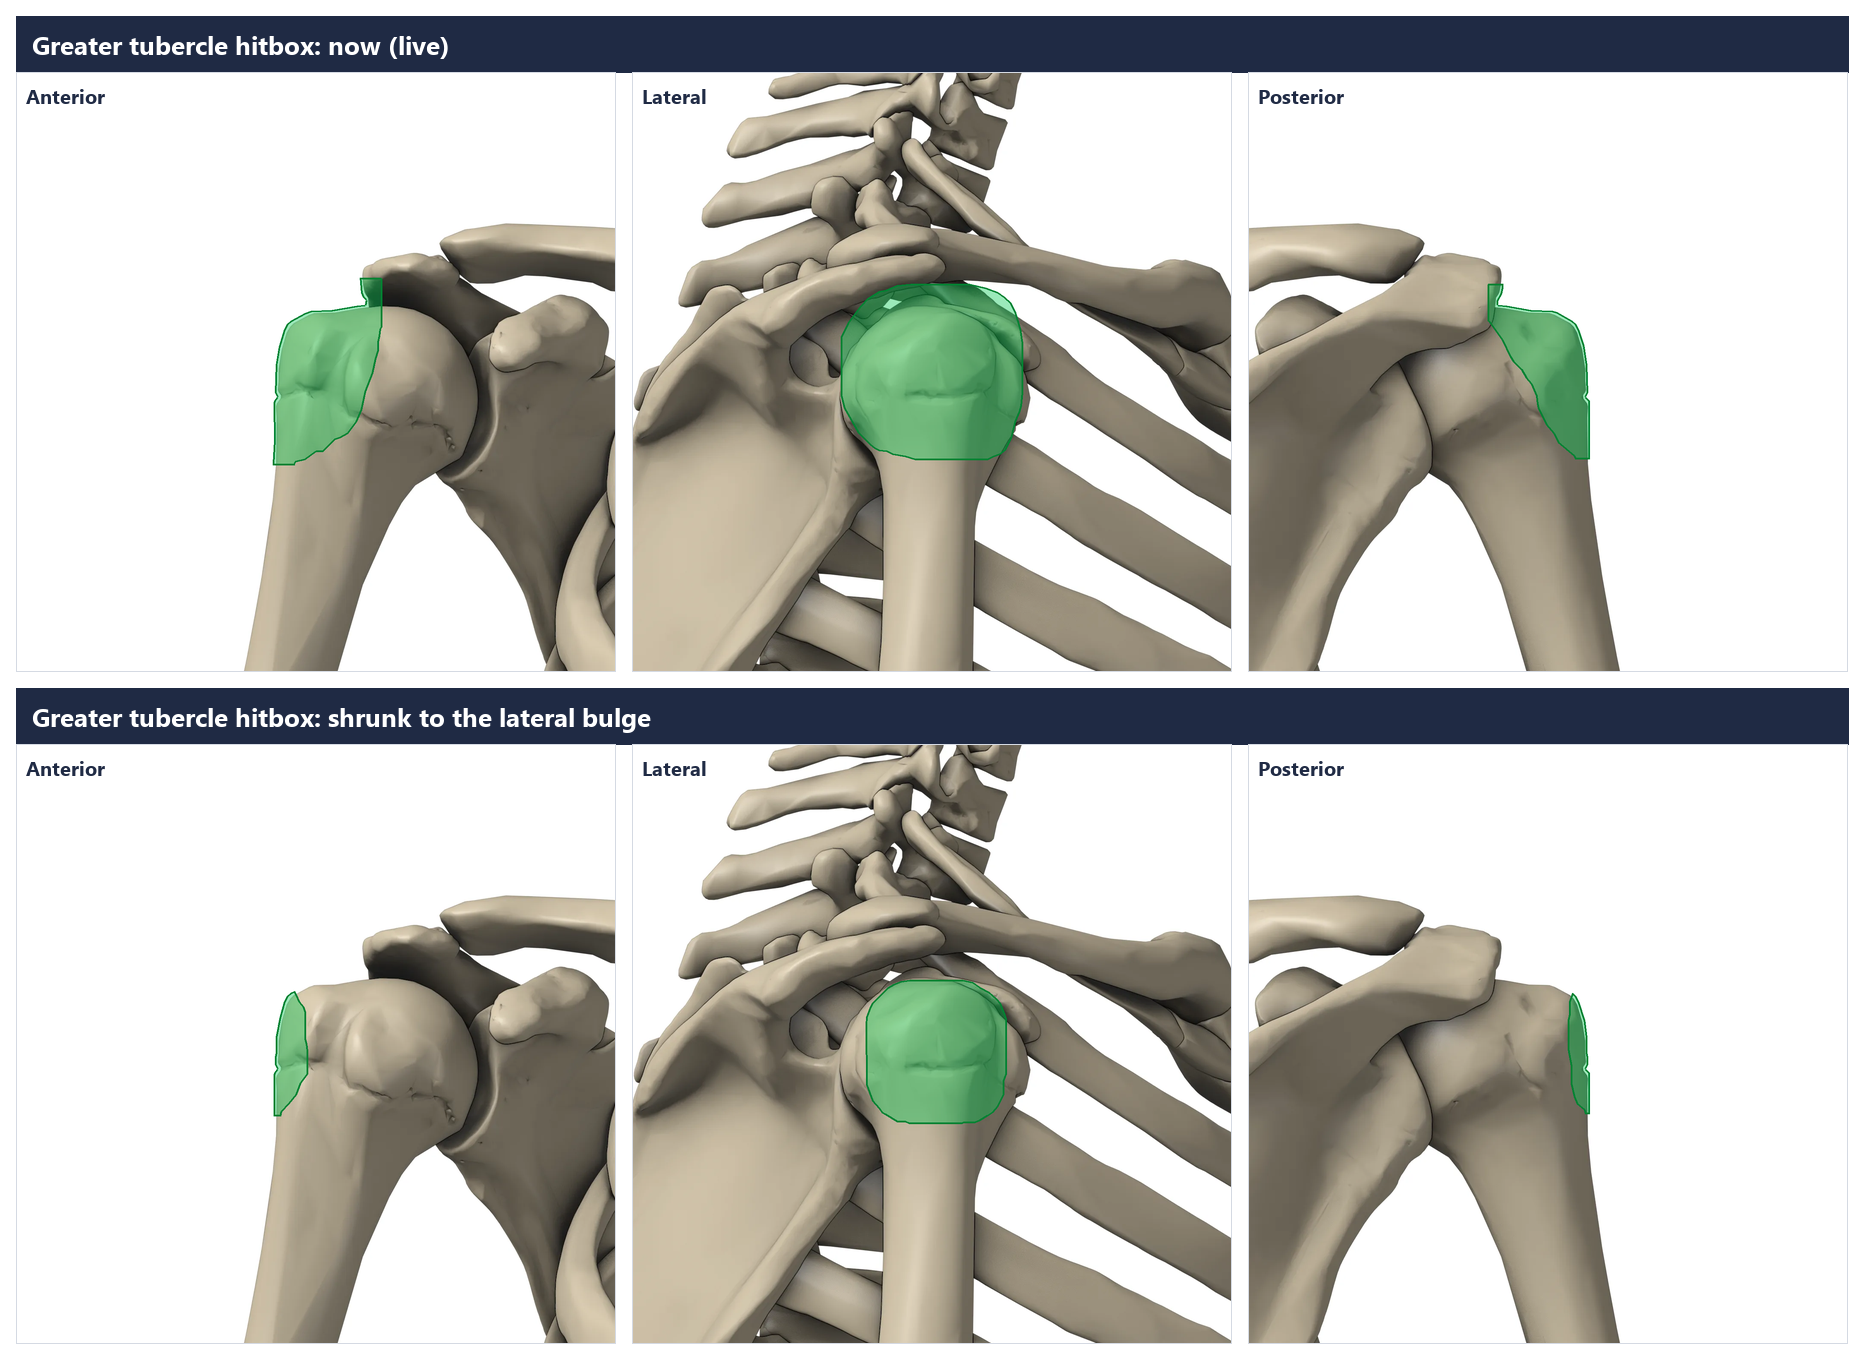
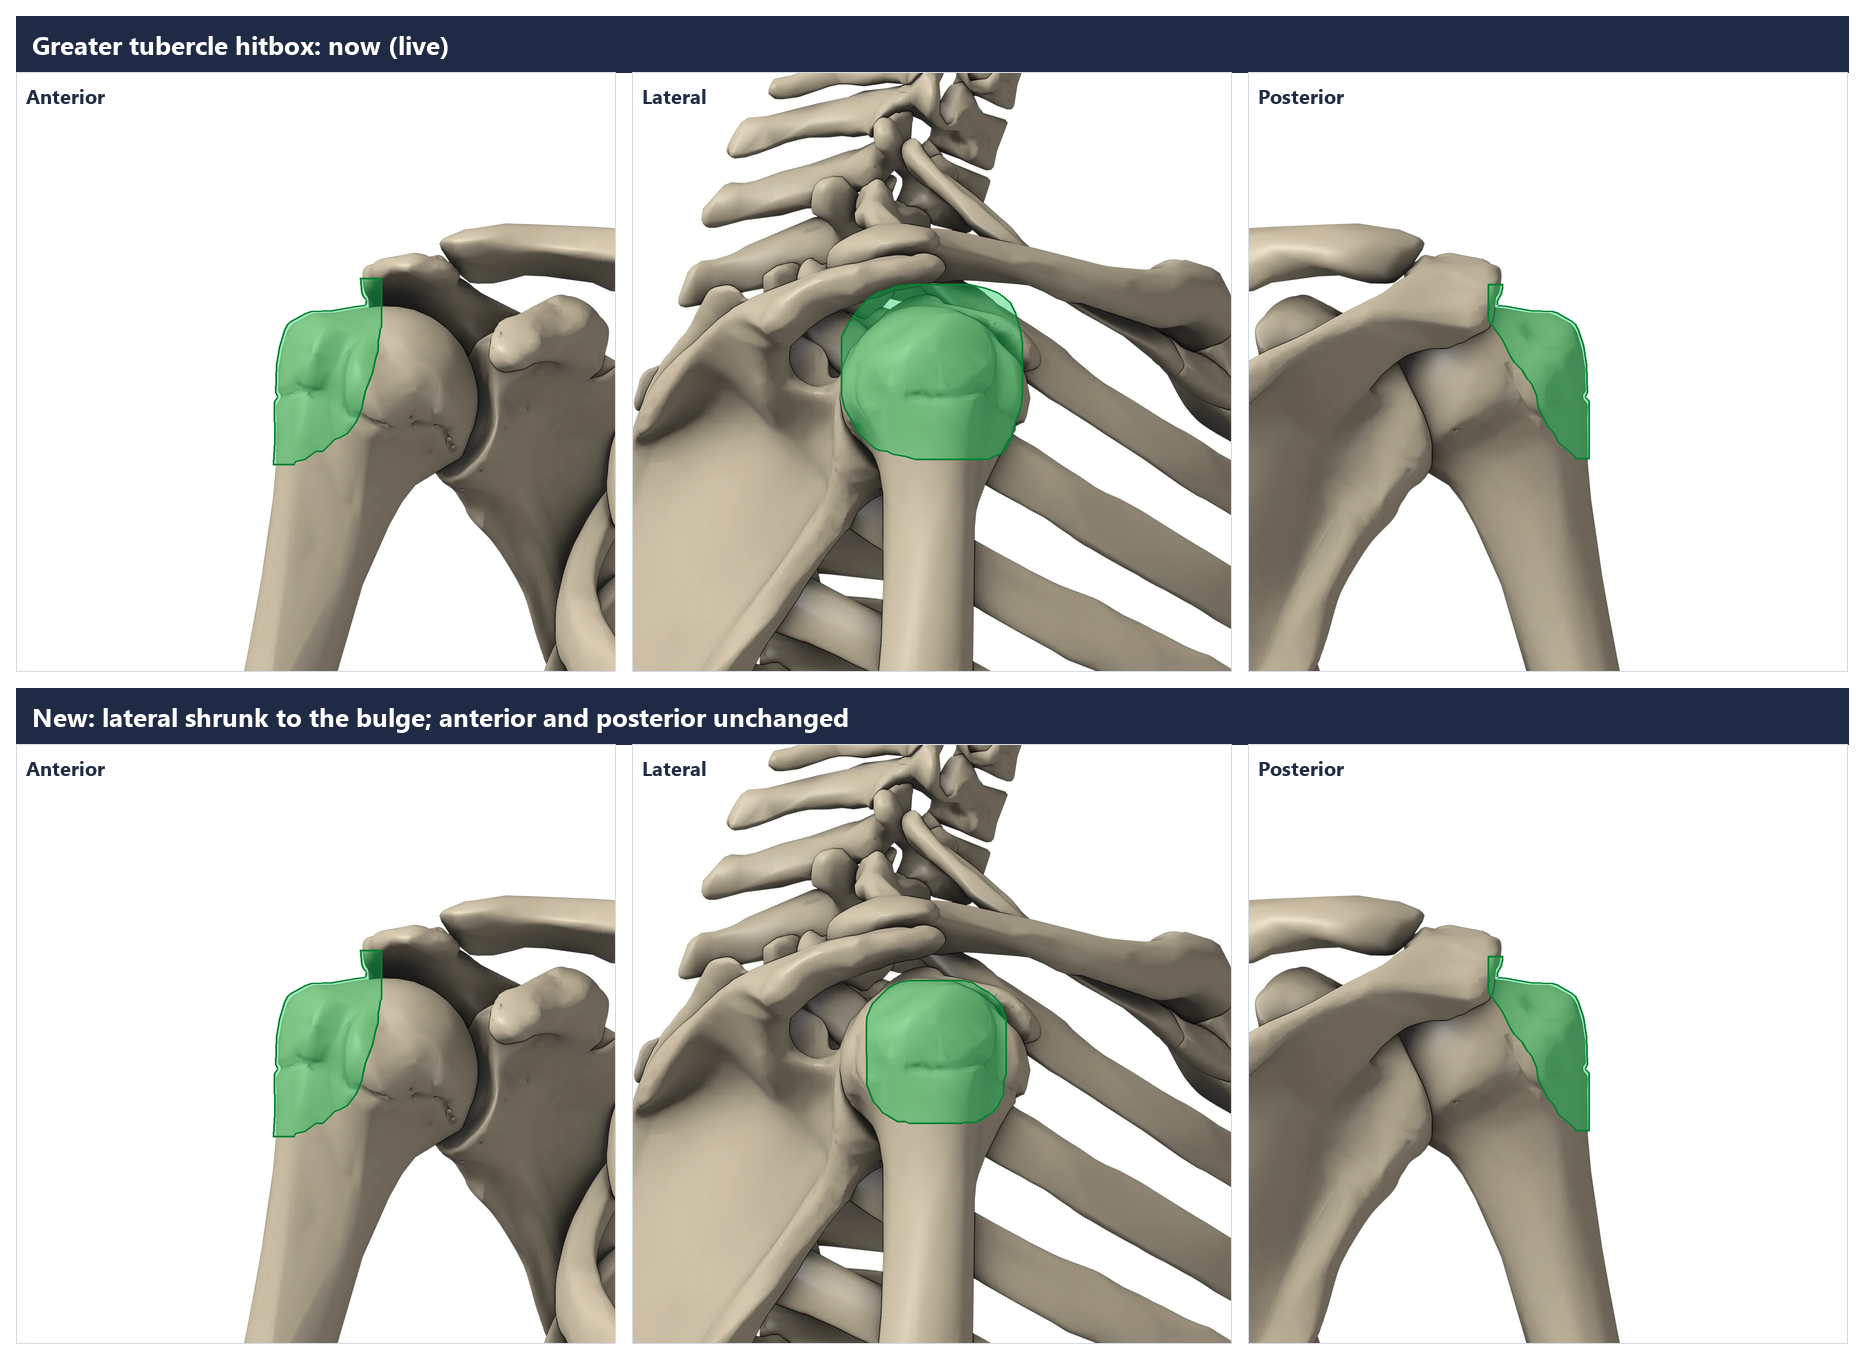
Keep the approved front and back greater tubercle hitboxes
Only the lateral hitbox was wrong. A new viewRegions rule key draws a
view's mask from rule overrides, so the anterior and posterior views keep
the October-approved second-pass ball while the lateral view uses the
shrunk one. The anterior and posterior seed entries are back to exactly
what is live; the overlay preview is regenerated.

Changed region(s): [[0.0311, 0.525, 0.4667, 0.5559], [0.1245, 0.6794, 0.2178, 0.8338], [0.7779, 0.7103, 0.8712, 0.8338]]

diff --git a/src/features/anatomy-revision/data/seed/hotspots.landmarks.generated.ts b/src/features/anatomy-revision/data/seed/hotspots.landmarks.generated.ts
@@ -62,9 +62,9 @@ export const LANDMARK_HOTSPOTS: Record<string, HotspotPolygon[]> = {
   'landmark-greater-trochanter-anterior': [{"structureId":"greater-trochanter","polygons":[[[0.43786,0.51143],[0.47643,0.40071],[0.505,0.365],[0.51214,0.35786],[0.53286,0.35071],[0.54571,0.35],[0.54571,0.36357],[0.54214,0.37143],[0.55714,0.38],[0.55714,0.395],[0.55286,0.40214],[0.55286,0.40571],[0.55429,0.40857],[0.55357,0.43143],[0.55857,0.44071],[0.55857,0.45714],[0.55714,0.46143],[0.55857,0.47286],[0.55857,0.51214],[0.55643,0.51929],[0.56,0.53357],[0.56,0.55286],[0.55643,0.56],[0.55571,0.57786],[0.55286,0.58786],[0.55,0.59286],[0.54214,0.60214],[0.53571,0.61357],[0.51571,0.63357],[0.51214,0.63929],[0.50143,0.65071],[0.49786,0.65786],[0.49643,0.65786],[0.47,0.61714],[0.44929,0.59071],[0.43786,0.54714]]],"area":0.026320449999999954,"centroid":[0.5046972183467674,0.5034558142776439],"targetCore":[[[0.43786,0.51143],[0.47643,0.40071],[0.505,0.365],[0.51214,0.35786],[0.53,0.35143],[0.54,0.35071],[0.54,0.35786],[0.53429,0.36929],[0.53429,0.37357],[0.53786,0.37857],[0.54929,0.38357],[0.55143,0.38571],[0.55143,0.38929],[0.54571,0.40071],[0.54571,0.40714],[0.54857,0.41429],[0.54714,0.435],[0.55286,0.44643],[0.55286,0.45143],[0.55071,0.45857],[0.55071,0.46929],[0.55286,0.47857],[0.55286,0.50643],[0.55,0.515],[0.55,0.52143],[0.55429,0.53929],[0.55429,0.54714],[0.55071,0.55429],[0.55,0.57214],[0.54714,0.58214],[0.54429,0.58714],[0.53643,0.59643],[0.53,0.60786],[0.51,0.62786],[0.50643,0.63357],[0.49571,0.645],[0.49357,0.64929],[0.49143,0.65],[0.47,0.61714],[0.44929,0.59071],[0.43786,0.54714]]]}],
   'landmark-greater-trochanter-lateral': [{"structureId":"greater-trochanter","polygons":[[[0.35929,0.49714],[0.36214,0.48357],[0.365,0.44429],[0.37,0.42857],[0.37714,0.42143],[0.38357,0.40929],[0.39429,0.39857],[0.40286,0.38643],[0.42429,0.36929],[0.44786,0.35571],[0.46357,0.35071],[0.49071,0.34786],[0.51643,0.34857],[0.52786,0.35143],[0.55786,0.365],[0.57929,0.37929],[0.595,0.38643],[0.60357,0.39214],[0.61,0.39857],[0.61714,0.40786],[0.62357,0.42571],[0.62643,0.43143],[0.63214,0.43786],[0.63571,0.44571],[0.635,0.47714],[0.63714,0.49571],[0.63714,0.515],[0.63286,0.52714],[0.62786,0.55],[0.62143,0.55929],[0.60643,0.59143],[0.58429,0.625],[0.56714,0.64071],[0.54214,0.65143],[0.52643,0.65214],[0.51571,0.65],[0.50357,0.65357],[0.48857,0.65357],[0.47714,0.65],[0.47214,0.65143],[0.45429,0.65143],[0.44571,0.64643],[0.40857,0.61571],[0.39571,0.60357],[0.38429,0.58643],[0.38,0.57643],[0.37643,0.55786],[0.37429,0.55357],[0.36643,0.545],[0.36643,0.52357],[0.35929,0.51286]]],"area":0.06712008465000009,"centroid":[0.4988388211684637,0.5001063961490099],"targetCore":[[[0.365,0.50286],[0.36786,0.48929],[0.37071,0.45],[0.37571,0.43429],[0.38286,0.42714],[0.38929,0.415],[0.4,0.40429],[0.40857,0.39214],[0.43,0.375],[0.45357,0.36143],[0.46929,0.35643],[0.49643,0.35357],[0.51071,0.35429],[0.52,0.35643],[0.55214,0.37071],[0.57357,0.385],[0.58929,0.39214],[0.59786,0.39786],[0.61,0.41143],[0.61786,0.43143],[0.62071,0.43714],[0.62643,0.44357],[0.63,0.45143],[0.62929,0.48286],[0.63143,0.50929],[0.62714,0.52143],[0.62214,0.54429],[0.61571,0.55357],[0.60071,0.58571],[0.57857,0.61929],[0.56143,0.635],[0.53643,0.64571],[0.52643,0.64571],[0.51929,0.64286],[0.51357,0.64286],[0.49786,0.64786],[0.47786,0.64357],[0.46,0.64571],[0.44429,0.635],[0.40929,0.60571],[0.40143,0.59786],[0.39,0.58071],[0.38571,0.57071],[0.38214,0.55214],[0.38,0.54786],[0.37286,0.54071],[0.37143,0.53714],[0.37286,0.51929],[0.36643,0.51071]]]}],
   'landmark-greater-trochanter-posterior': [{"structureId":"greater-trochanter","polygons":[[[0.455,0.35],[0.46643,0.35071],[0.48714,0.35786],[0.49429,0.365],[0.52286,0.40071],[0.53,0.41857],[0.56143,0.51143],[0.56143,0.54714],[0.55,0.59071],[0.52929,0.61714],[0.50214,0.65929],[0.5,0.65857],[0.49214,0.64786],[0.485,0.60786],[0.47214,0.57857],[0.47071,0.55786],[0.46857,0.55286],[0.46357,0.54786],[0.46143,0.54357],[0.46143,0.52857],[0.46357,0.52071],[0.45929,0.515],[0.45929,0.49857],[0.465,0.48071],[0.465,0.44571],[0.46714,0.44071],[0.46714,0.43071],[0.46286,0.42071],[0.46286,0.40929],[0.46071,0.40357],[0.46071,0.38143],[0.46429,0.36571],[0.46143,0.35786],[0.455,0.35214]]],"area":0.02053557245000004,"centroid":[0.5055103250631158,0.5029886147017048],"targetCore":[[[0.465,0.50429],[0.47071,0.48643],[0.47071,0.45143],[0.47429,0.44071],[0.47286,0.435],[0.47286,0.425],[0.46857,0.415],[0.46857,0.40357],[0.46643,0.39786],[0.46643,0.38714],[0.47143,0.36786],[0.46714,0.35286],[0.46714,0.35143],[0.46929,0.35143],[0.48714,0.35786],[0.49429,0.365],[0.52286,0.40071],[0.53,0.41857],[0.56143,0.51143],[0.56143,0.54714],[0.55,0.59071],[0.52929,0.61714],[0.50714,0.65143],[0.505,0.65143],[0.49786,0.64214],[0.49071,0.60214],[0.47786,0.57286],[0.47643,0.55214],[0.47429,0.54714],[0.46929,0.54214],[0.46714,0.53786],[0.47143,0.52],[0.465,0.50929]]]}],
-  'landmark-greater-tubercle-humerus-anterior': [{"structureId":"greater-tubercle-humerus","polygons":[[[0.42929,0.55143],[0.43,0.54857],[0.43571,0.54143],[0.43214,0.53429],[0.43214,0.52214],[0.43357,0.51429],[0.43357,0.48857],[0.43929,0.455],[0.44714,0.42929],[0.45214,0.42071],[0.45857,0.41429],[0.46429,0.41214],[0.46857,0.41786],[0.47357,0.42929],[0.48,0.43786],[0.48286,0.44714],[0.48357,0.49143],[0.48571,0.49929],[0.48643,0.51143],[0.48643,0.55071],[0.47571,0.56571],[0.46857,0.58429],[0.45571,0.60071],[0.44357,0.61357],[0.44143,0.62071],[0.42929,0.62071]]],"area":0.008565305100000031,"centroid":[0.4569552896921513,0.5162582349722328],"targetCore":[[[0.42929,0.55143],[0.43,0.54857],[0.43571,0.54143],[0.43214,0.53429],[0.43214,0.52214],[0.43357,0.51429],[0.43357,0.48857],[0.43643,0.47],[0.43857,0.45786],[0.445,0.43571],[0.44643,0.43143],[0.44857,0.43143],[0.45143,0.435],[0.45643,0.44643],[0.46286,0.455],[0.465,0.46071],[0.46643,0.47143],[0.465,0.49929],[0.46857,0.51857],[0.46786,0.52071],[0.46286,0.525],[0.46857,0.52714],[0.46929,0.53357],[0.45857,0.54857],[0.45143,0.56714],[0.43143,0.59071],[0.43,0.59071]]]}],
+  'landmark-greater-tubercle-humerus-anterior': [{"structureId":"greater-tubercle-humerus","polygons":[[[0.42857,0.65214],[0.43,0.615],[0.42929,0.55143],[0.43,0.54857],[0.43571,0.54143],[0.43214,0.53429],[0.43357,0.48857],[0.43857,0.45786],[0.44714,0.42929],[0.45214,0.42071],[0.45857,0.41429],[0.48214,0.40143],[0.49143,0.39786],[0.52714,0.39714],[0.56786,0.38929],[0.58214,0.38786],[0.58286,0.38071],[0.57857,0.375],[0.57571,0.36786],[0.57286,0.34357],[0.60857,0.34357],[0.61,0.345],[0.61,0.425],[0.60786,0.42786],[0.60714,0.44],[0.60429,0.45071],[0.60429,0.46429],[0.6,0.47786],[0.595,0.50143],[0.58286,0.53286],[0.57714,0.56286],[0.56857,0.58357],[0.55357,0.60357],[0.54,0.61071],[0.53143,0.61286],[0.51143,0.63357],[0.50071,0.63357],[0.48214,0.64643],[0.46714,0.65071],[0.46429,0.65357],[0.46429,0.65571],[0.42857,0.65571]]],"area":0.037618588300000075,"centroid":[0.5146139217487989,0.505561057014651],"targetCore":[[[0.42929,0.55143],[0.43,0.54857],[0.43571,0.54143],[0.43214,0.53429],[0.43214,0.52214],[0.43357,0.51429],[0.43357,0.48857],[0.43786,0.46143],[0.44714,0.42929],[0.45214,0.42071],[0.45857,0.41429],[0.48214,0.40143],[0.49143,0.39786],[0.52714,0.39714],[0.56714,0.39],[0.56714,0.4],[0.56429,0.41071],[0.56357,0.42857],[0.56,0.43786],[0.555,0.46143],[0.54286,0.49286],[0.53714,0.52286],[0.52857,0.54357],[0.52,0.55357],[0.51643,0.56071],[0.51357,0.56357],[0.5,0.57071],[0.49143,0.57286],[0.47286,0.59286],[0.46214,0.59286],[0.44214,0.60643],[0.43429,0.60929],[0.43,0.60929]]]}],
   'landmark-greater-tubercle-humerus-lateral': [{"structureId":"greater-tubercle-humerus","polygons":[[[0.38929,0.46786],[0.39071,0.45571],[0.39643,0.43786],[0.4,0.43143],[0.42643,0.405],[0.43571,0.4],[0.44857,0.39571],[0.46357,0.39286],[0.55143,0.39286],[0.56857,0.39643],[0.58,0.40571],[0.59571,0.41286],[0.60857,0.42429],[0.61429,0.43214],[0.62214,0.44929],[0.62429,0.45786],[0.62429,0.55],[0.62071,0.56214],[0.62,0.58429],[0.61071,0.60429],[0.60143,0.61429],[0.59286,0.62071],[0.58,0.62857],[0.57214,0.63143],[0.55357,0.63143],[0.55071,0.63286],[0.46143,0.63286],[0.455,0.63071],[0.44214,0.63],[0.42143,0.61857],[0.41643,0.615],[0.41214,0.60786],[0.40071,0.595],[0.39,0.56857]]],"area":0.051018298399999926,"centroid":[0.5071268443994893,0.5135223186358694],"targetCore":[[[0.42929,0.50786],[0.43071,0.49571],[0.43643,0.47786],[0.44,0.47143],[0.44714,0.46357],[0.46357,0.44714],[0.47,0.44286],[0.48357,0.43714],[0.50357,0.43286],[0.51143,0.43286],[0.52857,0.43643],[0.54,0.44571],[0.55571,0.45286],[0.56071,0.45643],[0.57429,0.47214],[0.58214,0.48929],[0.58429,0.49786],[0.58357,0.515],[0.57857,0.52714],[0.58071,0.53714],[0.58,0.54429],[0.57071,0.56429],[0.56143,0.57429],[0.55286,0.58071],[0.54,0.58857],[0.53214,0.59143],[0.51643,0.59071],[0.51071,0.59286],[0.50143,0.59286],[0.495,0.59071],[0.48214,0.59],[0.45714,0.57571],[0.45214,0.56786],[0.44357,0.55929],[0.435,0.54286],[0.43,0.52857]]]}],
-  'landmark-greater-tubercle-humerus-posterior': [{"structureId":"greater-tubercle-humerus","polygons":[[[0.53357,0.46071],[0.53571,0.45071],[0.53571,0.42929],[0.54071,0.41571],[0.54214,0.41571],[0.54714,0.42071],[0.55214,0.42929],[0.56143,0.46071],[0.56571,0.48857],[0.56571,0.51429],[0.56714,0.52214],[0.56714,0.53429],[0.56357,0.54143],[0.56929,0.54857],[0.57,0.55143],[0.57,0.61643],[0.56214,0.61643],[0.56071,0.61071],[0.54857,0.6],[0.54286,0.58786],[0.53857,0.56643],[0.53857,0.53643],[0.53357,0.50929]]],"area":0.005160615800000101,"centroid":[0.5515057390565313,0.5186220022180587],"targetCore":[[[0.54643,0.47357],[0.54929,0.45714],[0.54857,0.44214],[0.55143,0.43357],[0.55357,0.43357],[0.56143,0.46071],[0.56571,0.48857],[0.56571,0.51429],[0.56714,0.52214],[0.56714,0.53429],[0.56357,0.54143],[0.56929,0.54857],[0.57,0.55143],[0.56929,0.59286],[0.56714,0.59286],[0.56143,0.58714],[0.55714,0.57929],[0.55214,0.55786],[0.55143,0.52357],[0.54643,0.49643]]]}],
+  'landmark-greater-tubercle-humerus-posterior': [{"structureId":"greater-tubercle-humerus","polygons":[[[0.39929,0.355],[0.40071,0.35357],[0.425,0.35357],[0.425,0.36071],[0.42286,0.37071],[0.41643,0.38143],[0.41714,0.38786],[0.43143,0.38929],[0.47214,0.39714],[0.50786,0.39786],[0.51571,0.40071],[0.54071,0.41429],[0.54714,0.42071],[0.55214,0.42929],[0.56,0.455],[0.56571,0.48857],[0.56714,0.53429],[0.56357,0.54143],[0.56929,0.54857],[0.57,0.55143],[0.57,0.64571],[0.545,0.64571],[0.54357,0.64071],[0.51714,0.61786],[0.50929,0.60286],[0.49643,0.58857],[0.48357,0.56],[0.48143,0.55286],[0.48071,0.54],[0.47143,0.52],[0.46357,0.51071],[0.455,0.49643],[0.44214,0.48357],[0.43714,0.47571],[0.42357,0.44643],[0.40214,0.41714],[0.39929,0.415]]],"area":0.02525369895,"centroid":[0.5014852946926217,0.4922347985271811],"targetCore":[[[0.435,0.39071],[0.47214,0.39714],[0.50786,0.39786],[0.51571,0.40071],[0.54071,0.41429],[0.54714,0.42071],[0.55214,0.42929],[0.56,0.455],[0.56571,0.48857],[0.56714,0.53429],[0.56357,0.54143],[0.56929,0.54857],[0.57,0.55143],[0.56929,0.60571],[0.56429,0.60286],[0.54714,0.58786],[0.53929,0.57286],[0.52643,0.55857],[0.51357,0.53],[0.51143,0.52286],[0.51071,0.51],[0.50143,0.49],[0.49357,0.48071],[0.485,0.46643],[0.47214,0.45357],[0.46714,0.44571],[0.45357,0.41643]]]}],
   'landmark-head-of-fibula-anterior': [{"structureId":"head-of-fibula","polygons":[[[0.40643,0.50357],[0.41429,0.47571],[0.43714,0.43429],[0.45571,0.40643],[0.46714,0.39643],[0.46857,0.39643],[0.47286,0.41143],[0.48357,0.425],[0.49643,0.43714],[0.50357,0.44643],[0.52857,0.48571],[0.57143,0.56143],[0.57929,0.58571],[0.58,0.59571],[0.57857,0.6],[0.56786,0.59571],[0.55643,0.59643],[0.54929,0.59286],[0.54357,0.59286],[0.53786,0.595],[0.52,0.595],[0.515,0.59357],[0.50214,0.59357],[0.49214,0.59571],[0.48071,0.595],[0.44429,0.60071],[0.43,0.57214],[0.40929,0.53786],[0.40643,0.51643]]],"area":0.021101507150000032,"centroid":[0.48254156786014984,0.519007980907136],"targetCore":[[[0.40643,0.50357],[0.41429,0.47571],[0.43714,0.43429],[0.45571,0.40643],[0.46714,0.39643],[0.46857,0.39643],[0.47286,0.41143],[0.48357,0.425],[0.49643,0.43714],[0.50357,0.44643],[0.52857,0.48571],[0.57143,0.56143],[0.57929,0.58571],[0.58,0.59571],[0.57857,0.6],[0.56786,0.59571],[0.55643,0.59643],[0.54929,0.59286],[0.54357,0.59286],[0.53786,0.595],[0.52,0.595],[0.515,0.59357],[0.50214,0.59357],[0.49214,0.59571],[0.48071,0.595],[0.44429,0.60071],[0.43,0.57214],[0.40929,0.53786],[0.40643,0.51643]]]}],
   'landmark-head-of-fibula-lateral': [{"structureId":"head-of-fibula","polygons":[[[0.40786,0.545],[0.41214,0.53786],[0.41214,0.52429],[0.40857,0.49643],[0.40857,0.48643],[0.42071,0.41929],[0.42429,0.41071],[0.43143,0.40286],[0.44714,0.39357],[0.45786,0.39214],[0.46286,0.39429],[0.50571,0.43143],[0.545,0.45071],[0.56643,0.45857],[0.58,0.46714],[0.58643,0.47357],[0.58929,0.47857],[0.59143,0.49],[0.58786,0.51429],[0.55214,0.58714],[0.545,0.59357],[0.52357,0.59571],[0.51286,0.59857],[0.48571,0.59429],[0.46714,0.59643],[0.45929,0.59429],[0.44071,0.595],[0.42857,0.59357],[0.41786,0.59929],[0.41357,0.6],[0.41429,0.56214],[0.41286,0.55143]]],"area":0.027799075600000014,"centroid":[0.48901484594589645,0.5066896148244944],"targetCore":[[[0.40786,0.545],[0.41214,0.53786],[0.41214,0.52429],[0.40857,0.49643],[0.40857,0.48643],[0.42071,0.41929],[0.42429,0.41071],[0.43143,0.40286],[0.44714,0.39357],[0.45786,0.39214],[0.46286,0.39429],[0.50571,0.43143],[0.545,0.45071],[0.56643,0.45857],[0.58,0.46714],[0.58643,0.47357],[0.58929,0.47857],[0.59143,0.49],[0.58786,0.51429],[0.55214,0.58714],[0.545,0.59357],[0.52357,0.59571],[0.51286,0.59857],[0.48571,0.59429],[0.46714,0.59643],[0.45929,0.59429],[0.44071,0.595],[0.42857,0.59357],[0.41786,0.59929],[0.41357,0.6],[0.41429,0.56214],[0.41286,0.55143]]]}],
   'landmark-head-of-fibula-posterior': [{"structureId":"head-of-fibula","polygons":[[[0.40786,0.50857],[0.40857,0.5],[0.41714,0.47],[0.41857,0.45929],[0.42286,0.44786],[0.42857,0.43857],[0.44286,0.42357],[0.47286,0.40071],[0.48643,0.39286],[0.49214,0.39143],[0.51071,0.39143],[0.51571,0.39286],[0.53,0.39214],[0.53071,0.395],[0.54357,0.40643],[0.56214,0.43429],[0.58357,0.47286],[0.59286,0.50357],[0.59286,0.51714],[0.59,0.53786],[0.56929,0.57214],[0.55571,0.59929],[0.54643,0.59571],[0.525,0.59286],[0.51786,0.59357],[0.50786,0.59857],[0.50286,0.59857],[0.49857,0.59643],[0.49,0.58857],[0.48571,0.58786],[0.48214,0.59071],[0.47857,0.60071],[0.47357,0.60286],[0.45429,0.58643],[0.445,0.58929],[0.43857,0.585],[0.43,0.595],[0.425,0.59714],[0.42143,0.59714],[0.42,0.59571],[0.40857,0.52643]]],"area":0.030197052549999978,"centroid":[0.49840632023990955,0.5020247392965842],"targetCore":[[[0.40786,0.50857],[0.40857,0.5],[0.41714,0.47],[0.41857,0.45929],[0.42286,0.44786],[0.42857,0.43857],[0.44286,0.42357],[0.47286,0.40071],[0.48643,0.39286],[0.49214,0.39143],[0.51071,0.39143],[0.51571,0.39286],[0.53,0.39214],[0.53071,0.395],[0.54357,0.40643],[0.56214,0.43429],[0.58357,0.47286],[0.59286,0.50357],[0.59286,0.51714],[0.59,0.53786],[0.56929,0.57214],[0.55571,0.59929],[0.54643,0.59571],[0.525,0.59286],[0.51786,0.59357],[0.50786,0.59857],[0.50286,0.59857],[0.49857,0.59643],[0.49,0.58857],[0.48571,0.58786],[0.48214,0.59071],[0.47857,0.60071],[0.47357,0.60286],[0.45429,0.58643],[0.445,0.58929],[0.43857,0.585],[0.43,0.595],[0.425,0.59714],[0.42143,0.59714],[0.42,0.59571],[0.40857,0.52643]]]}],

diff --git a/src/scripts/blender/renderLandmarkMarkers.py b/src/scripts/blender/renderLandmarkMarkers.py
@@ -833,6 +833,22 @@ for lm in spec["landmarks"]:
         scene.collection.objects.link(region_ob)
         region_ob.hide_render = True
 
+    # ONE VIEW'S REGION CHANGED, THE OTHERS KEPT. `viewRegions` maps a view
+    # key to rule overrides; that view's mask is drawn from the region those
+    # values grow, every other view from the rule itself. The greater
+    # tubercle's lateral ball covered the whole head and was shrunk (16 Nov
+    # 2026), but its anterior and posterior hitboxes were approved in October
+    # and stay as they were.
+    view_meshes = {}
+    if region_ob is not None and rule.get("viewRegions"):
+        for vk, over in rule["viewRegions"].items():
+            vrule = {k: v for k, v in rule.items() if k not in ("viewRegions", "frameFrom")}
+            vrule.update(over)
+            vbuilt = build_region(parent_name, vrule, region_anchors)
+            if vbuilt is not None:
+                vbuilt[0].materials.append(MASK_ON)
+                view_meshes[vk] = vbuilt[0]
+
     # THE LANDMARK'S OWN BONE, masked through the same camera. The publisher
     # trims a hitbox to the bone silhouette, but the silhouette is every bone
     # in shot: the iliac crest's margin still climbed onto L5 at the peak of
@@ -1069,6 +1085,8 @@ for lm in spec["landmarks"]:
             # whole isolated group is the silhouette the gap is cut from.
             group_hole = bool(rule.get("hole")) and lid in ISOLATE_WITH
             ctx_ob.data.materials[0] = MASK_ON if group_hole else MASK_OFF
+            if vkey in view_meshes:
+                region_ob.data = view_meshes[vkey]
             region_ob.hide_render = False
             if twin_region_ob is not None and twin_fits:
                 twin_region_ob.hide_render = False
@@ -1095,6 +1113,7 @@ for lm in spec["landmarks"]:
                     entry["axis"] = contact
                     entry["axisWidth"] = rule.get("axisHalfWidth")
             ctx_ob.data.materials[0] = BONE_MAT
+            region_ob.data = region_mesh
             region_ob.hide_render = True
             if twin_region_ob is not None:
                 twin_region_ob.hide_render = True
@@ -1194,6 +1213,8 @@ for lm in spec["landmarks"]:
         scene.collection.objects.unlink(region_ob)
         bpy.data.objects.remove(region_ob)
         bpy.data.meshes.remove(region_mesh)
+    for vmesh in view_meshes.values():
+        bpy.data.meshes.remove(vmesh)
     if parent_ob is not None:
         pmesh = parent_ob.data
         scene.collection.objects.unlink(parent_ob)
